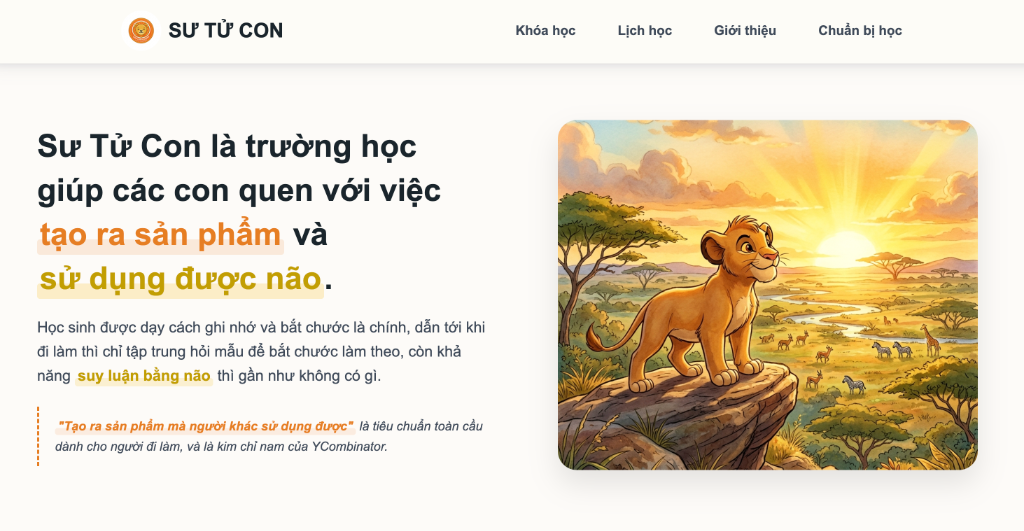
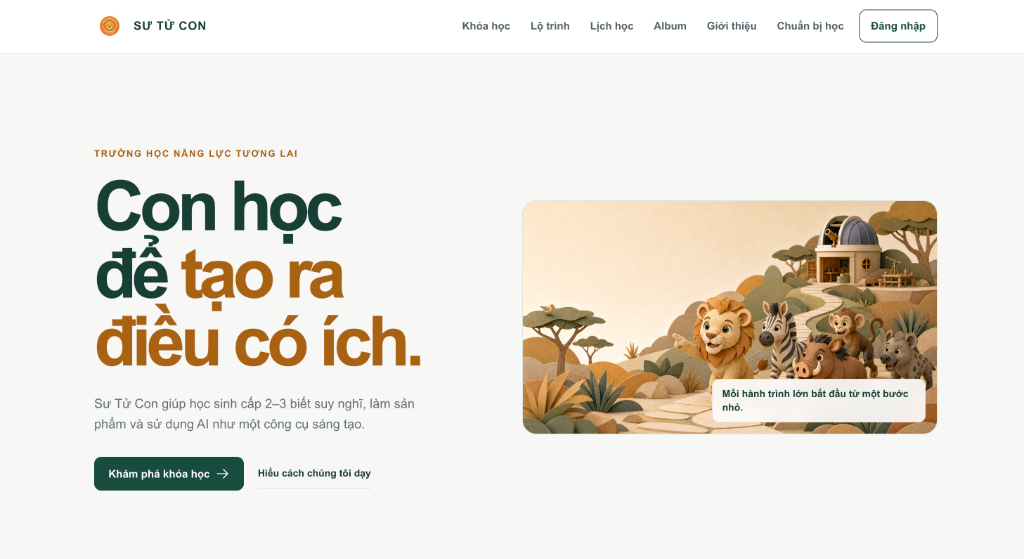
feat: add Chuyen Chon card & update workplaces info

diff --git a/website/src/app/(main)/page.tsx b/website/src/app/(main)/page.tsx
@@ -79,14 +79,14 @@ export default function Home() {
               {
                 title: "Conan School",
                 role: "Mentor lớp WebAI Builders và AI Master",
-                desc: "Trường học dạy cách thu hút khách số 1 Việt Nam",
+                desc: "Cộng đồng dành cho những người bắt đầu hành trình xây dựng doanh nghiệp trong kỷ nguyên AI",
                 link: "https://www.conan.school/",
                 image: "/images/conan_school.png"
               },
               {
                 title: "Sư Tử Con School",
                 role: "Mentor lớp AI Teen",
-                desc: "Trường học dạy các bé cấp 2 và cấp 3 làm quen với việc tạo ra sản phẩm và sử dụng được não",
+                desc: "Sư Tử Con giúp học sinh cấp 2–3 biết suy nghĩ, làm sản phẩm và sử dụng AI như một công cụ sáng tạo và học các Future Skills (như Problem Framing, Math Thinking, Python, ...)",
                 link: "https://sutucon.com/",
                 image: "/images/sutucon_school.png"
               },
@@ -103,43 +103,56 @@ export default function Home() {
                 desc: "Cộng đồng học cách hiểu mình và đối mặt với cảm xúc và xung đột (với bố mẹ, bạn bè, người yêu,...)",
                 link: "https://www.inside6.com/",
                 image: "/images/inside6.png"
+              },
+              {
+                title: "Chuyên Chọn",
+                role: "Mentor",
+                desc: "Hệ thống đo đạc giúp con đỗ trường chuyên cấp 3",
+                link: "https://chuyenchon.com/",
+                image: "/images/chuyen_chon.png"
               }
-            ].map((work, idx) => (
-              <a
-                key={idx}
-                href={work.link}
-                target="_blank"
-                rel="noopener noreferrer"
-                className="group flex flex-col bg-card border-thin border-border-custom rounded-3xl overflow-hidden hover:-translate-y-2 transition-all duration-500 hover:shadow-2xl hover:shadow-accent/5 hover:border-accent/30"
-              >
-                <div className="relative aspect-[16/9] w-full overflow-hidden border-b-thin border-border-custom">
-                  <Image
-                    src={work.image}
-                    alt={work.title}
-                    fill
-                    className="object-cover group-hover:scale-105 transition-transform duration-700"
-                    unoptimized
-                  />
-                  <div className="absolute inset-0 bg-gradient-to-t from-black/60 via-transparent to-transparent opacity-0 group-hover:opacity-100 transition-opacity duration-500 flex items-end p-6">
-                    <span className="text-[12px] font-bold uppercase tracking-widest text-white flex items-center gap-1.5">
-                      Ghé thăm website <ArrowRight size={14} />
-                    </span>
+            ].map((work, idx) => {
+              const isLink = !!work.link;
+              const CardComponent = isLink ? 'a' : 'div';
+              return (
+                <CardComponent
+                  key={idx}
+                  {...(isLink ? { href: work.link, target: "_blank", rel: "noopener noreferrer" } : {})}
+                  className={`group flex flex-col bg-card border-thin border-border-custom rounded-3xl overflow-hidden transition-all duration-500 ${
+                    isLink ? "hover:-translate-y-2 hover:shadow-2xl hover:shadow-accent/5 hover:border-accent/30 cursor-pointer" : ""
+                  }`}
+                >
+                  <div className="relative aspect-[16/9] w-full overflow-hidden border-b-thin border-border-custom">
+                    <Image
+                      src={work.image}
+                      alt={work.title}
+                      fill
+                      className={`object-cover ${isLink ? "group-hover:scale-105" : ""} transition-transform duration-700`}
+                      unoptimized
+                    />
+                    {isLink && (
+                      <div className="absolute inset-0 bg-gradient-to-t from-black/60 via-transparent to-transparent opacity-0 group-hover:opacity-100 transition-opacity duration-500 flex items-end p-6">
+                        <span className="text-[12px] font-bold uppercase tracking-widest text-white flex items-center gap-1.5">
+                          Ghé thăm website <ArrowRight size={14} />
+                        </span>
+                      </div>
+                    )}
                   </div>
-                </div>
 
-                <div className="p-8 flex flex-col flex-grow">
-                  <h4 className="text-xl font-extrabold tracking-tight mb-2 group-hover:text-accent transition-colors duration-300">
-                    {work.title}
-                  </h4>
-                  <span className="text-[11px] font-bold uppercase tracking-wider text-accent bg-accent/5 border border-accent/15 px-3 py-1 rounded-full w-fit mb-4">
-                    {work.role}
-                  </span>
-                  <p className="text-[14px] text-foreground/75 leading-relaxed font-medium">
-                    {work.desc}
-                  </p>
-                </div>
-              </a>
-            ))}
+                  <div className="p-8 flex flex-col flex-grow">
+                    <h4 className={`text-xl font-extrabold tracking-tight mb-2 ${isLink ? "group-hover:text-accent" : ""} transition-colors duration-300`}>
+                      {work.title}
+                    </h4>
+                    <span className="text-[11px] font-bold uppercase tracking-wider text-accent bg-accent/5 border border-accent/15 px-3 py-1 rounded-full w-fit mb-4">
+                      {work.role}
+                    </span>
+                    <p className="text-[14px] text-foreground/75 leading-relaxed font-medium">
+                      {work.desc}
+                    </p>
+                  </div>
+                </CardComponent>
+              );
+            })}
           </div>
           <div className="flex justify-center mt-16">
             <a href="/about" className="group flex items-center space-x-2 px-10 py-5 bg-accent text-white text-[13px] font-bold tracking-tight uppercase rounded-full hover:scale-105 hover:shadow-xl hover:shadow-accent/20 transition-all">

diff --git a/website/src/app/(main)/about/AmongUsGame.tsx b/website/src/app/(main)/about/AmongUsGame.tsx
@@ -8,9 +8,9 @@ const STATEMENTS = [
   { id: 1, text: "Wibu", isTruth: true, color: "bg-red-500" },
   { id: 2, text: "Có một đứa em gái kém 20 tuổi (đẻ nó ra còn được luôn…)", isTruth: true, color: "bg-blue-500" },
   { id: 3, text: "Cấp 03 học lớp Chuyên Hàn THPT Chuyên Ngoại ngữ, nhưng ra trường 1 chữ tiếng Hàn bẻ đôi cũng không biết :’D", isTruth: true, color: "bg-green-500" },
-  { id: 4, text: "Hay đi muộn cúp học khi lên đại học", isTruth: false, color: "bg-yellow-500" },
-  { id: 5, text: "Chơi thể thao siêu dở (trừ bơi…)", isTruth: false, color: "bg-purple-500" },
-  { id: 6, text: "Lười làm việc nhà", isTruth: false, color: "bg-cyan-500" }
+  { id: 4, text: "Hay đi muộn cúp học khi lên đại học", isTruth: true, color: "bg-yellow-500" },
+  { id: 5, text: "Chơi thể thao siêu dở (trừ bơi…)", isTruth: true, color: "bg-purple-500" },
+  { id: 6, text: "Lười làm việc nhà", isTruth: true, color: "bg-cyan-500" }
 ];
 
 export default function AmongUsGame() {
@@ -45,7 +45,7 @@ export default function AmongUsGame() {
           Who is the Impostor?
         </h3>
         <p className="text-gray-400 text-sm md:text-base">
-          3 truth 2 lie? (Actually there are 6 statements!) Hãy vote để tìm ra sự thật nhé!
+          Trò chơi "3 Truth 2 Lie" nhưng... khoan đã, có thực sự là có lời nói dối nào không? Hãy thử vote xem sao!
         </p>
       </div>
 
